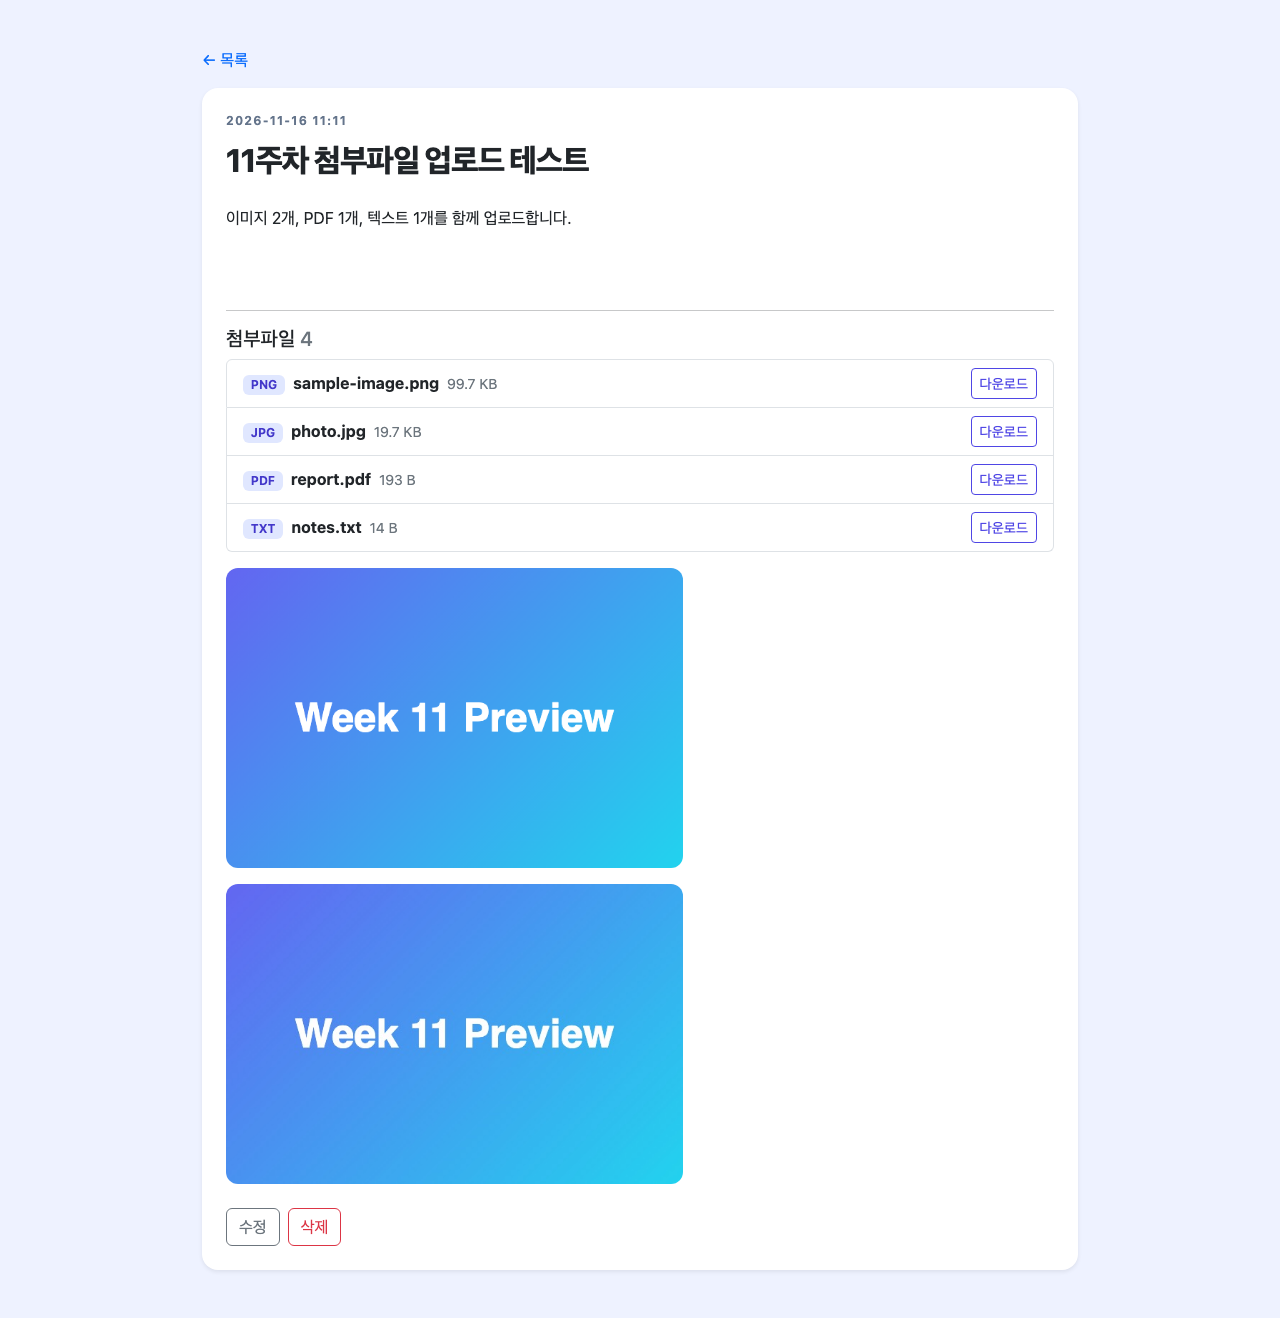
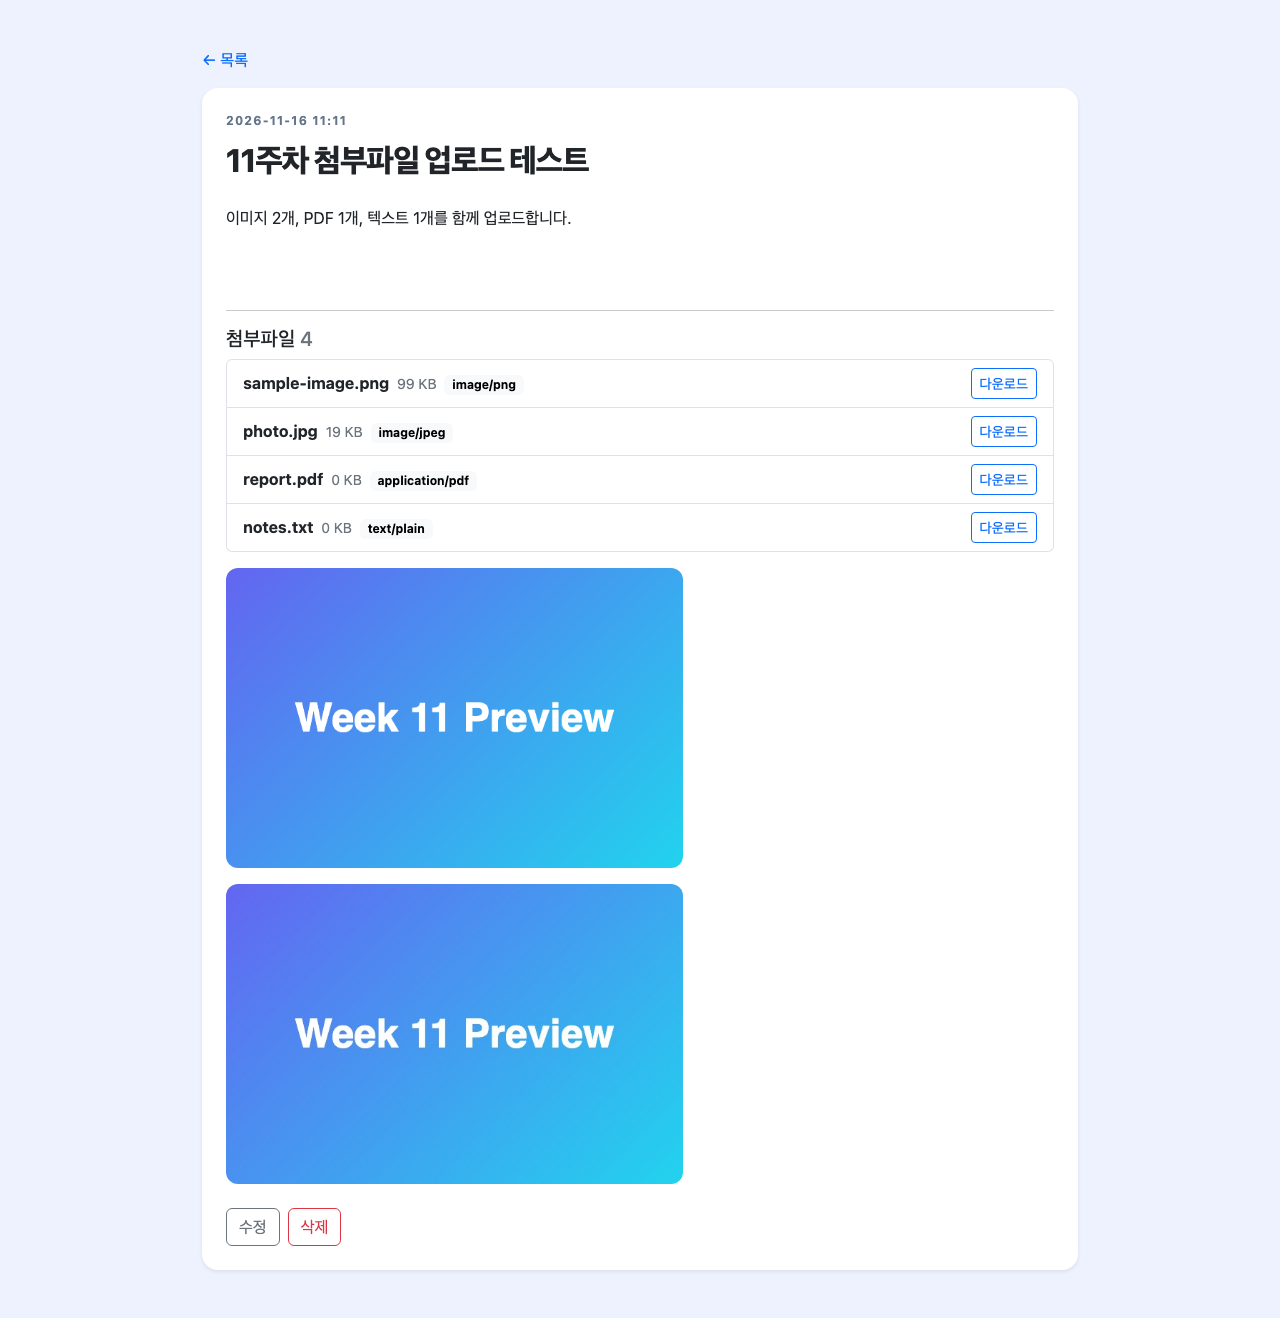
미리보기 코드 샘플 수준으로 정리

Changed region(s): [[0.1875, 0.28, 0.4062, 0.4355], [0.75, 0.28, 0.8125, 0.4044]]

diff --git a/src/main/resources/templates/posts/detail.html b/src/main/resources/templates/posts/detail.html
@@ -1,1 +1,1 @@
-<!DOCTYPE html><html lang="ko" xmlns:th="http://www.thymeleaf.org"><head><meta charset="UTF-8"><meta name="viewport" content="width=device-width,initial-scale=1"><title>게시글 상세</title><link href="https://cdn.jsdelivr.net/npm/bootstrap@5.3.3/dist/css/bootstrap.min.css" rel="stylesheet"><link th:href="@{/css/app.css}" rel="stylesheet"></head><body><main class="container py-5" style="max-width:900px"><a th:href="@{/posts}">← 목록</a><div class="card shadow-sm mt-3"><div class="card-body p-4"><div class="eyebrow" th:text="${#temporals.format(post.createdAt,'yyyy-MM-dd HH:mm')}">작성일</div><h1 th:text="${post.title}">게시글 제목</h1><p class="post-content" th:text="${post.content}">게시글 내용</p><hr><h5>첨부파일 <span class="text-secondary" th:text="${#lists.size(post.attachments)}">0</span></h5><p class="text-secondary" th:if="${#lists.isEmpty(post.attachments)}">첨부파일이 없습니다.</p><ul class="list-group" th:if="${!#lists.isEmpty(post.attachments)}"><li class="list-group-item d-flex justify-content-between align-items-center" th:each="file : ${post.attachments}"><div><span class="badge file-type me-2" th:text="${file.extension}">PDF</span><strong th:text="${file.originalFilename}">sample.pdf</strong><small class="ms-2 text-secondary" th:text="${file.readableSize}">크기</small></div><a class="btn btn-outline-primary btn-sm" th:href="@{/attachments/{id}/download(id=${file.id})}">다운로드</a></li></ul><div class="mt-3"><div class="mb-3" th:each="file : ${post.attachments}" th:if="${file.image}"><img class="preview-img" th:src="@{/attachments/{id}/view(id=${file.id})}" alt="첨부 이미지"></div></div><div class="d-flex gap-2 mt-4"><a class="btn btn-outline-secondary" th:href="@{/posts/{id}/edit(id=${post.id})}">수정</a><form th:action="@{/posts/{id}/delete(id=${post.id})}" method="post" onsubmit="return confirm('게시글을 삭제할까요?')"><button class="btn btn-outline-danger">삭제</button></form></div></div></div></main></body></html>
+<!DOCTYPE html><html lang="ko" xmlns:th="http://www.thymeleaf.org"><head><meta charset="UTF-8"><meta name="viewport" content="width=device-width,initial-scale=1"><title>게시글 상세</title><link href="https://cdn.jsdelivr.net/npm/bootstrap@5.3.3/dist/css/bootstrap.min.css" rel="stylesheet"><link th:href="@{/css/app.css}" rel="stylesheet"></head><body><main class="container py-5" style="max-width:900px"><a th:href="@{/posts}">← 목록</a><div class="card shadow-sm mt-3"><div class="card-body p-4"><div class="eyebrow" th:text="${#temporals.format(post.createdAt,'yyyy-MM-dd HH:mm')}">작성일</div><h1 th:text="${post.title}">게시글 제목</h1><p class="post-content" th:text="${post.content}">게시글 내용</p><hr><h5>첨부파일 <span class="text-secondary" th:text="${#lists.size(post.attachments)}">0</span></h5><p class="text-secondary" th:if="${#lists.isEmpty(post.attachments)}">첨부파일이 없습니다.</p><ul class="list-group" th:if="${!#lists.isEmpty(post.attachments)}"><li class="list-group-item d-flex justify-content-between align-items-center" th:each="file : ${post.attachments}"><div><strong th:text="${file.originalFilename}">sample.pdf</strong><small class="ms-2 text-secondary" th:text="${file.fileSize / 1024} + ' KB'">크기</small><span class="badge text-bg-light ms-2" th:text="${file.contentType}">타입</span></div><a class="btn btn-outline-primary btn-sm" th:href="@{/attachments/{id}/download(id=${file.id})}">다운로드</a></li></ul><div class="mt-3"><div class="mb-3" th:each="file : ${post.attachments}" th:if="${#strings.startsWith(file.contentType, 'image/')}"><img class="preview-img" th:src="@{/attachments/{id}/view(id=${file.id})}" alt="첨부 이미지"></div></div><div class="d-flex gap-2 mt-4"><a class="btn btn-outline-secondary" th:href="@{/posts/{id}/edit(id=${post.id})}">수정</a><form th:action="@{/posts/{id}/delete(id=${post.id})}" method="post" onsubmit="return confirm('게시글을 삭제할까요?')"><button class="btn btn-outline-danger">삭제</button></form></div></div></div></main></body></html>

diff --git a/src/main/resources/static/css/app.css b/src/main/resources/static/css/app.css
@@ -9,8 +9,5 @@ h1 { font-size:2rem; font-weight:750; letter-spacing:-0.04em; }
 body { background:#eef2ff; }
 .subtitle { color:#64748b; margin:.4rem 0 0; }
 .btn-primary { background:#4f46e5; border-color:#4f46e5; }
-.btn-outline-primary { color:#4f46e5; border-color:#4f46e5; }
-.btn-outline-primary:hover { background:#4f46e5; border-color:#4f46e5; }
 .table th { background:#e0e7ff; color:#4338ca; }
-.file-type { background:#e0e7ff; color:#4338ca; }
 .preview-img { max-width:100%; max-height:300px; border-radius:12px; }

diff --git a/src/main/java/edu/handong/web11/controller/AttachmentController.java b/src/main/java/edu/handong/web11/controller/AttachmentController.java
@@ -34,8 +34,8 @@ public class AttachmentController {
     public ResponseEntity<Resource> view(@PathVariable Long id) {
         Attachment file = attachments.findById(id).orElseThrow(() ->
             new ResponseStatusException(HttpStatus.NOT_FOUND, "첨부파일이 없습니다."));
-        if (!file.isImage())
-            throw new ResponseStatusException(HttpStatus.UNSUPPORTED_MEDIA_TYPE, "이미지 파일만 미리보기할 수 있습니다.");
+        if (!file.getContentType().startsWith("image/"))
+            throw new ResponseStatusException(HttpStatus.BAD_REQUEST, "이미지 파일만 미리보기할 수 있습니다.");
         Resource resource = storage.load(file);
         String disposition = ContentDisposition.inline()
             .filename(file.getOriginalFilename(), StandardCharsets.UTF_8)

diff --git a/src/main/java/edu/handong/web11/domain/Attachment.java b/src/main/java/edu/handong/web11/domain/Attachment.java
@@ -32,16 +32,4 @@ public class Attachment {
     public String getStoredFilename() { return storedFilename; }
     public String getContentType() { return contentType; }
     public long getFileSize() { return fileSize; }
-    public boolean isImage() {
-        return contentType.equals("image/jpeg") || contentType.equals("image/png") || contentType.equals("image/gif");
-    }
-    public String getExtension() {
-        int dot = storedFilename.lastIndexOf('.');
-        return dot < 0 ? "" : storedFilename.substring(dot + 1).toUpperCase();
-    }
-    public String getReadableSize() {
-        if (fileSize < 1024) return fileSize + " B";
-        if (fileSize < 1024 * 1024) return String.format("%.1f KB", fileSize / 1024.0);
-        return String.format("%.1f MB", fileSize / (1024.0 * 1024));
-    }
 }
